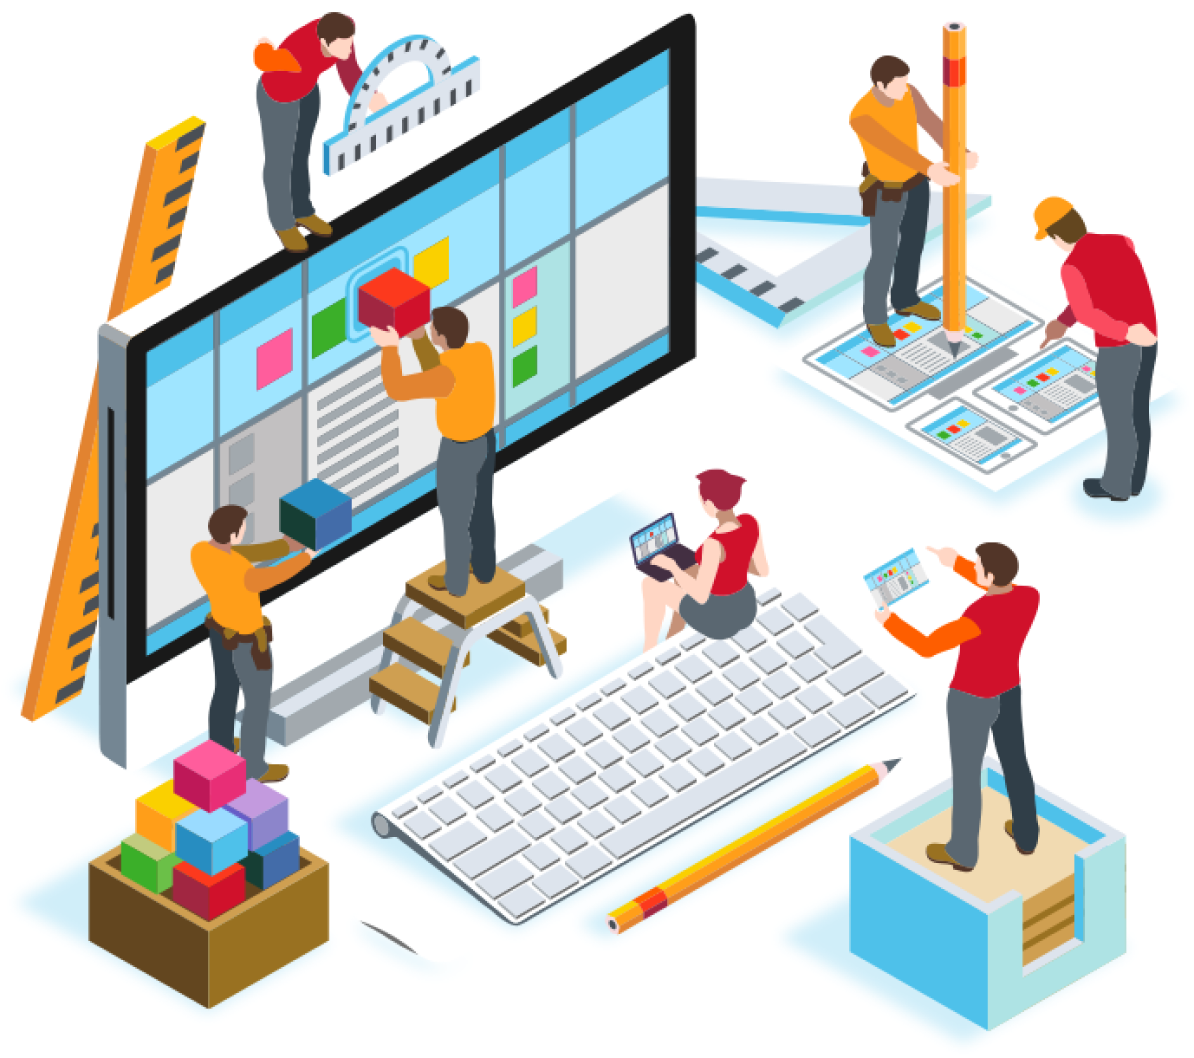
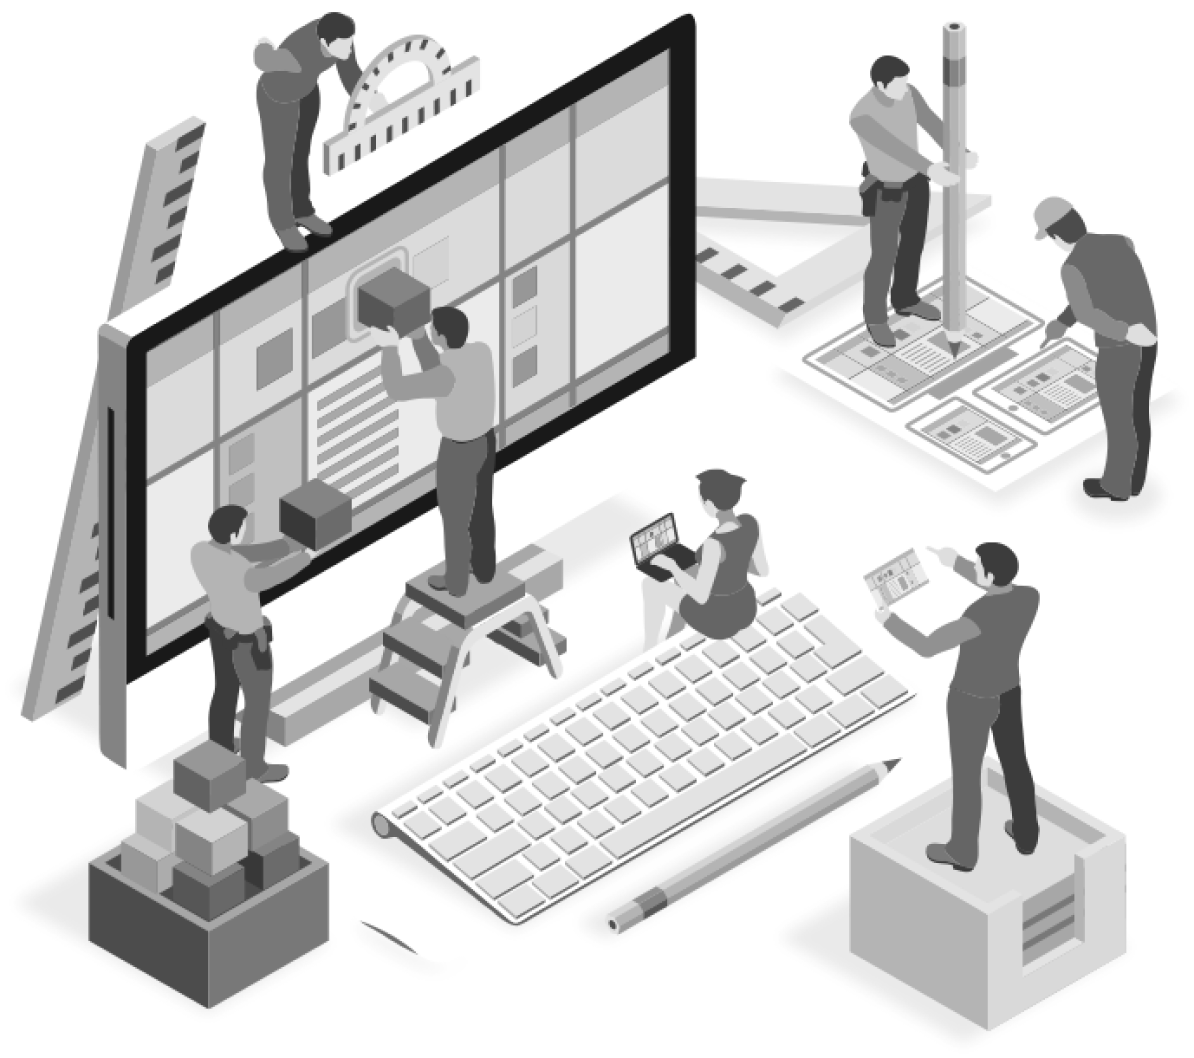
change image color

diff --git a/components/molecules/Landing/CreatifCareersCard.jsx b/components/molecules/Landing/CreatifCareersCard.jsx
@@ -1,5 +1,6 @@
 import { Button, Card } from "components/atoms";
 import React from "react";
+import { BsMailbox2 } from "react-icons/bs";
 
 const CreatifCareersCard = () => {
   return (
@@ -10,8 +11,13 @@ const CreatifCareersCard = () => {
       <h4 className="text-sm font-semibold font-display my-3">
         Unlock Exciting Prospects
       </h4>
-      <Button className="mt-5" mode="primary" buttonSize="md">
-        Start Your Journey
+      <Button
+        className="mt-5"
+        icon={BsMailbox2}
+        mode="tertiary"
+        buttonSize="md"
+      >
+        Apply Now
       </Button>
       <p className="text-sm text-neutral-500 mt-8 leading-relaxed">
         We offers an opportunity to contribute in designing products, software
